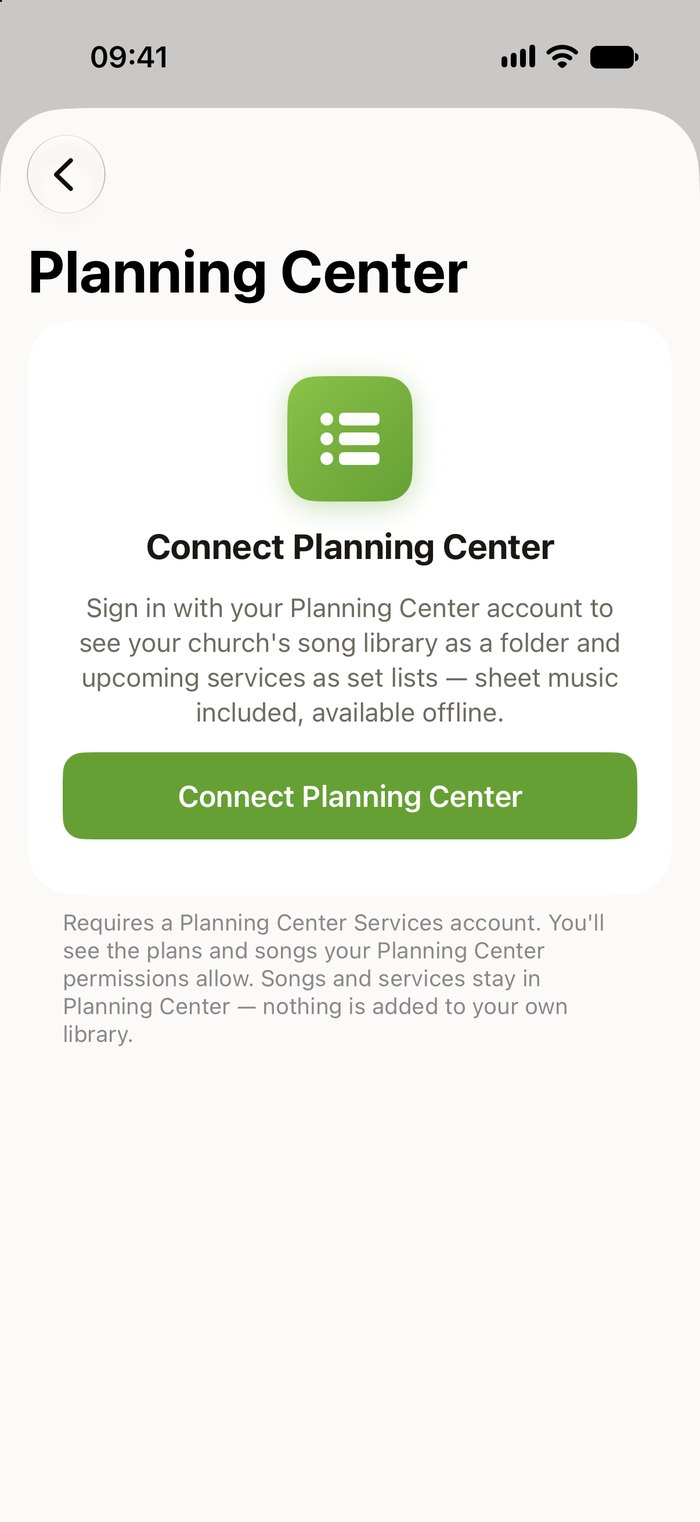
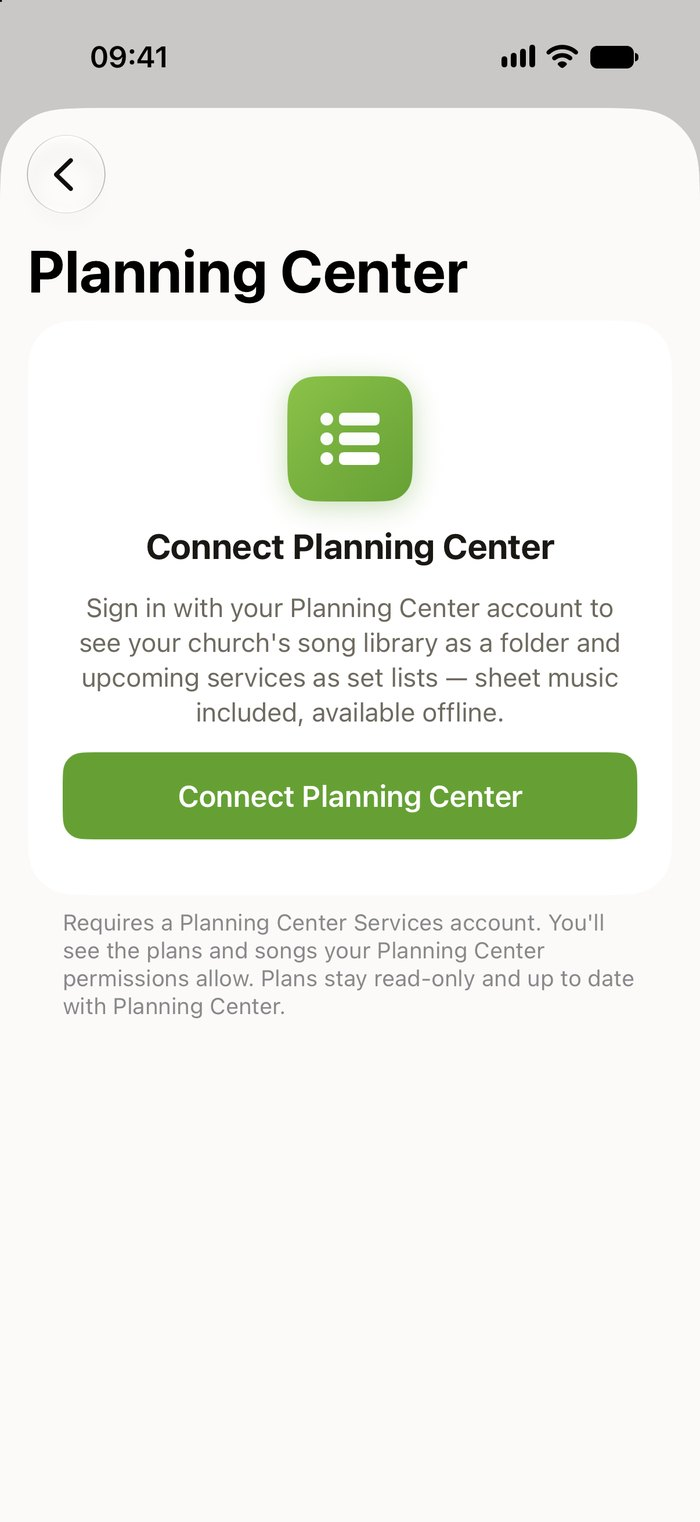
Planning Center: Connect screenshot with the corrected footnote
Recaptured from the app's fix/pco-connect-footnote branch: the footnote now
says "Plans stay read-only and up to date with Planning Center." instead of
the misleading "nothing is added to your own library". Cache-busted (v2).

Changed region(s): [[0.09, 0.6176, 0.81, 0.6794], [0.84, 0.6176, 0.9, 0.6485]]

diff --git a/planning-center.html b/planning-center.html
@@ -219,7 +219,7 @@
   <div class="wrap rows pc-rows">
     <div class="row-feature">
       <div class="rf-text"><h2 class="heading-sm">Connect <em>once.</em></h2><p>In Account, tap Planning Center and sign in on Planning Center's own page. Your team's songs and upcoming services are there from then on.</p><ul class="rf-points"><li><svg viewBox="0 0 16 16" fill="none" stroke="currentColor" stroke-width="1.9" stroke-linecap="round" stroke-linejoin="round" aria-hidden="true"><path d="M3 8.5l3 3 7-7"/></svg><span>Sign in with your Planning Center account; Music Folder never sees your password</span></li><li><svg viewBox="0 0 16 16" fill="none" stroke="currentColor" stroke-width="1.9" stroke-linecap="round" stroke-linejoin="round" aria-hidden="true"><path d="M3 8.5l3 3 7-7"/></svg><span>You see the plans and songs your Planning Center permissions allow</span></li><li><svg viewBox="0 0 16 16" fill="none" stroke="currentColor" stroke-width="1.9" stroke-linecap="round" stroke-linejoin="round" aria-hidden="true"><path d="M3 8.5l3 3 7-7"/></svg><span>Your team’s songs show up in your library as a folder</span></li></ul></div>
-      <div class="rf-visual"><div class="device phone fit"><div class="screen shot"><img src="/assets/pco-connect-iphone.jpg?v=1" alt="The Connect Planning Center screen in Music Folder on iPhone, with the Connect Planning Center button" width="700" height="1522" loading="lazy"></div></div></div>
+      <div class="rf-visual"><div class="device phone fit"><div class="screen shot"><img src="/assets/pco-connect-iphone.jpg?v=2" alt="The Connect Planning Center screen in Music Folder on iPhone, with the Connect Planning Center button" width="700" height="1522" loading="lazy"></div></div></div>
     </div><div class="row-feature flip">
       <div class="rf-text"><h2 class="heading-sm">Every service, <em>in order.</em></h2><p>Tomorrow's service waits on your Home screen, with its songs in the order of the plan. Open it and play straight through.</p><ul class="rf-points"><li><svg viewBox="0 0 16 16" fill="none" stroke="currentColor" stroke-width="1.9" stroke-linecap="round" stroke-linejoin="round" aria-hidden="true"><path d="M3 8.5l3 3 7-7"/></svg><span>Upcoming services next to your set lists</span></li><li><svg viewBox="0 0 16 16" fill="none" stroke="currentColor" stroke-width="1.9" stroke-linecap="round" stroke-linejoin="round" aria-hidden="true"><path d="M3 8.5l3 3 7-7"/></svg><span>Your team's song library as a folder</span></li><li><svg viewBox="0 0 16 16" fill="none" stroke="currentColor" stroke-width="1.9" stroke-linecap="round" stroke-linejoin="round" aria-hidden="true"><path d="M3 8.5l3 3 7-7"/></svg><span>Mix Planning Center songs with your own charts in one set</span></li></ul></div>
       <div class="rf-visual"><img class="cutout" src="/assets/home-pco-iphone.webp?v=2" alt="The Music Folder home screen on iPhone: tomorrow's Sunday Service from Planning Center with its first songs" width="396" height="841" loading="lazy" style="width:min(260px,72%)"></div>
